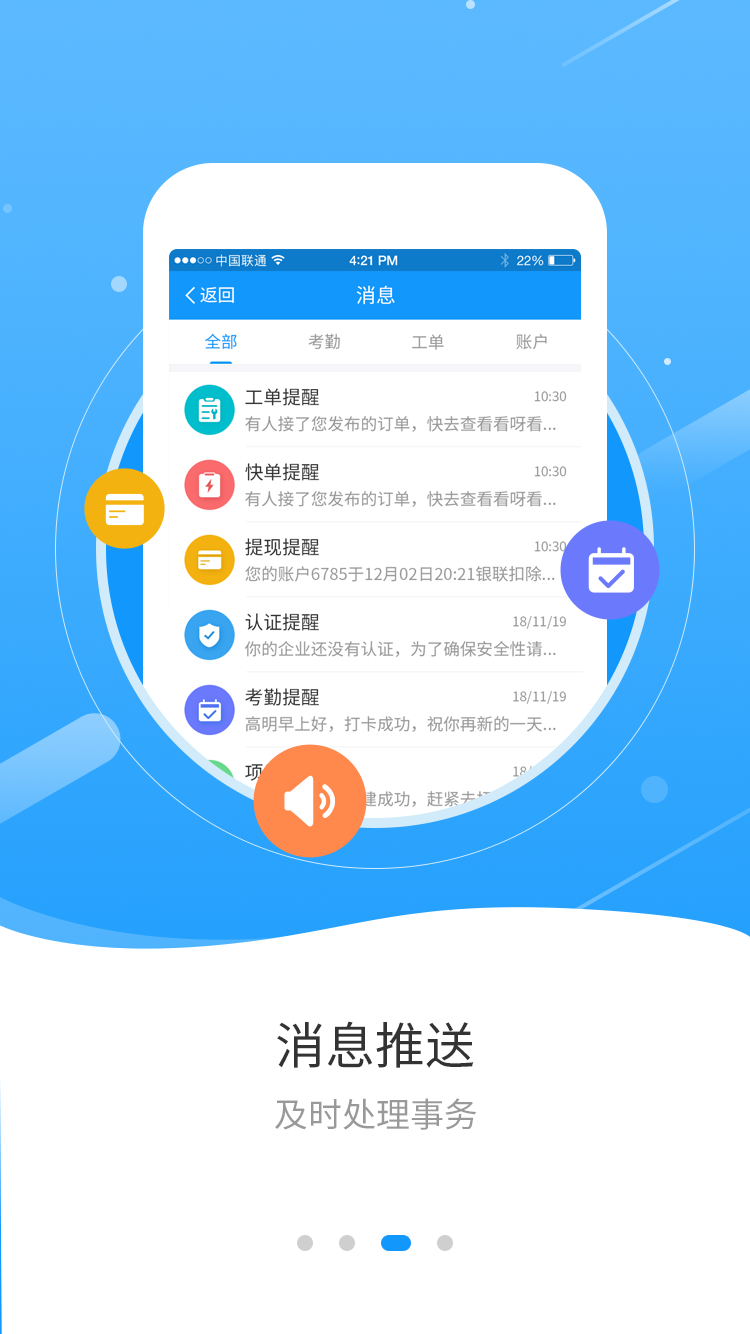
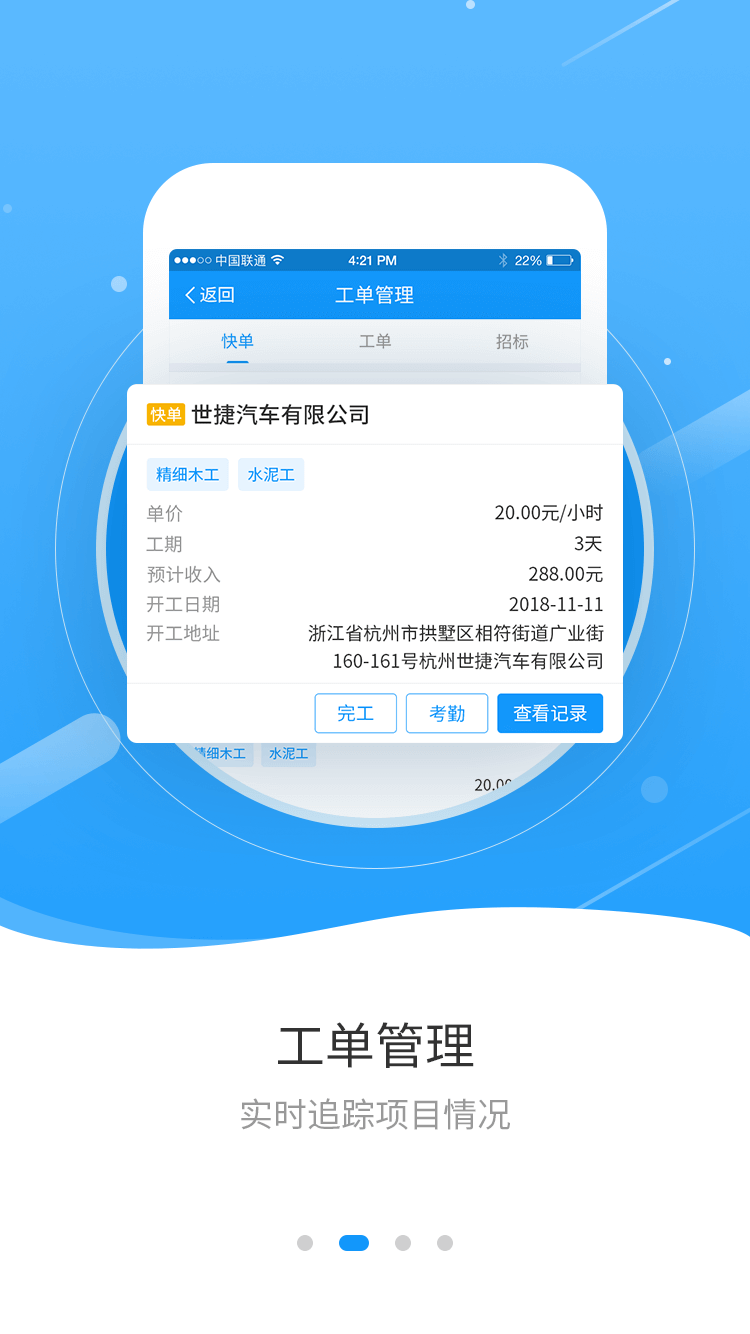
修改引导页bug、修改底部导航bug

diff --git a/src/models/layout.js b/src/models/layout.js
@@ -123,17 +123,17 @@ class MainLayout extends Component {
       dots={false}
       infinite={false}
     >
-      <a><img src={require('../../src/assets/guide/guide1.png')} /></a>
-      <a><img src={require('../../src/assets/guide/guide3.png')} /></a>
-      <a><img src={require('../../src/assets/guide/guide2.png')} /></a>
-      <a onClick={this.startPage}><img src={require('../../src/assets/guide/guide4.png')} /></a>
+      <a style={{ backgroundImage: 'url(' + require('../../src/assets/guide/guide1.png') + ')' }}></a>
+      <a style={{ backgroundImage: 'url(' + require('../../src/assets/guide/guide2.png') + ')' }}></a>
+      <a style={{ backgroundImage: 'url(' + require('../../src/assets/guide/guide3.png') + ')' }}></a>
+      <a style={{ backgroundImage: 'url(' + require('../../src/assets/guide/guide4.png') + ')' }} onClick={this.startPage}></a>
     </Carousel>
   }
   render() {
     return (
       <div style={{ width: '100%', height: '100%', overflow: 'hidden', position: 'relative' }}>
         {
-          storage.get('firstload') !== 1 ? this.showGuidePage() : this.showMenu()
+          storage.get('firstload') !== 1 && typeof OCBridge === 'undefined' ? this.showGuidePage() : this.showMenu()
         }
       </div>
     )

diff --git a/src/models/style.css b/src/models/style.css
@@ -10,13 +10,19 @@
   height: 100%!important;
   & :global(.slider-frame) {
     height: 100%!important;
+    & :global(.slider-list) {
+      height: 100%!important;
+    }
   }
   & :global(.slider-slide) {
+    height: 100%!important;
     & a {
       display: block;
-      & img {
-        width: 100%;
-      }
+      width: 100%;
+      height: 100%;
+      background-size: cover;
+      background-position: 100% 100%;
+      touch-action: none;
     }
   }
 }

diff --git a/src/components/Menus/style.css b/src/components/Menus/style.css
@@ -160,7 +160,7 @@ html:not([data-scale]) .bottom-menu-box :global(.am-tab-bar-bar::before) {
   bottom: 0;
   height: 56px;
   background: url('../../assets/tab_back.png');
-  background-size: contain;
+  background-size: cover;
 }
 
 .tabBody-fix-iphoneX .bottom-menu-box :global(.am-tabs-pane-wrap-inactive),
